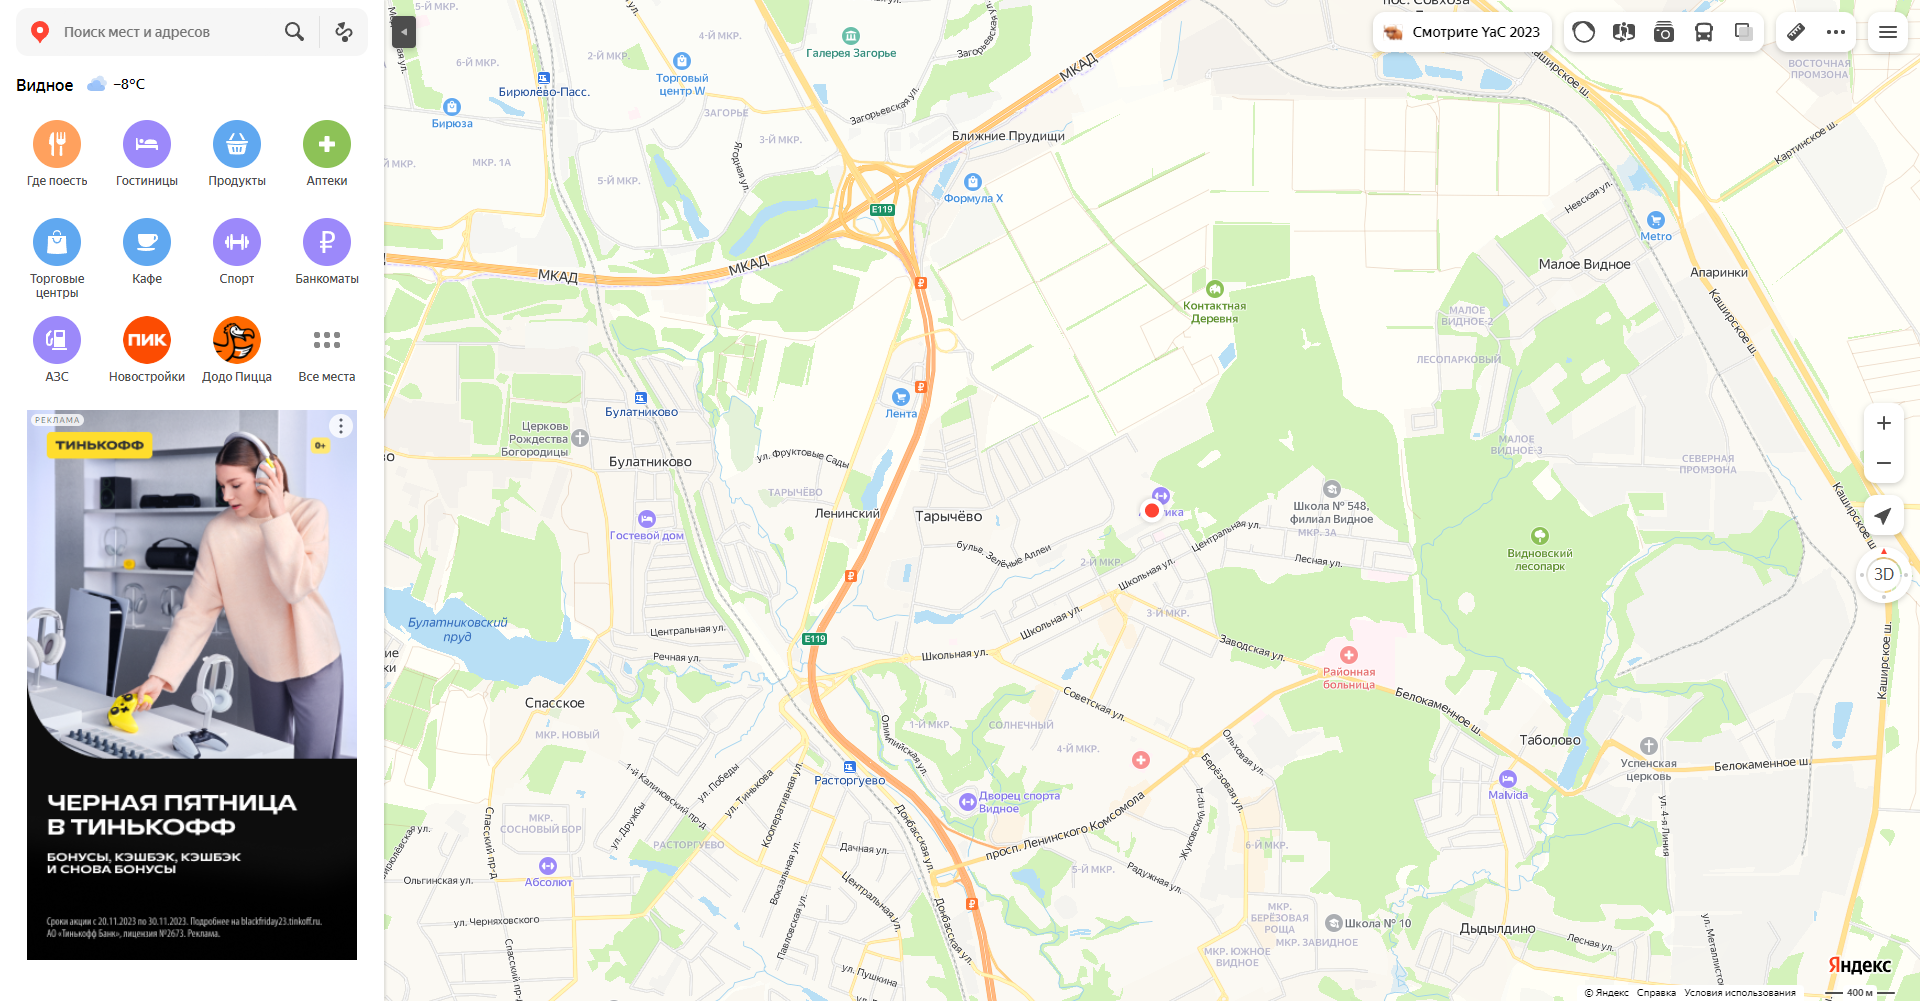
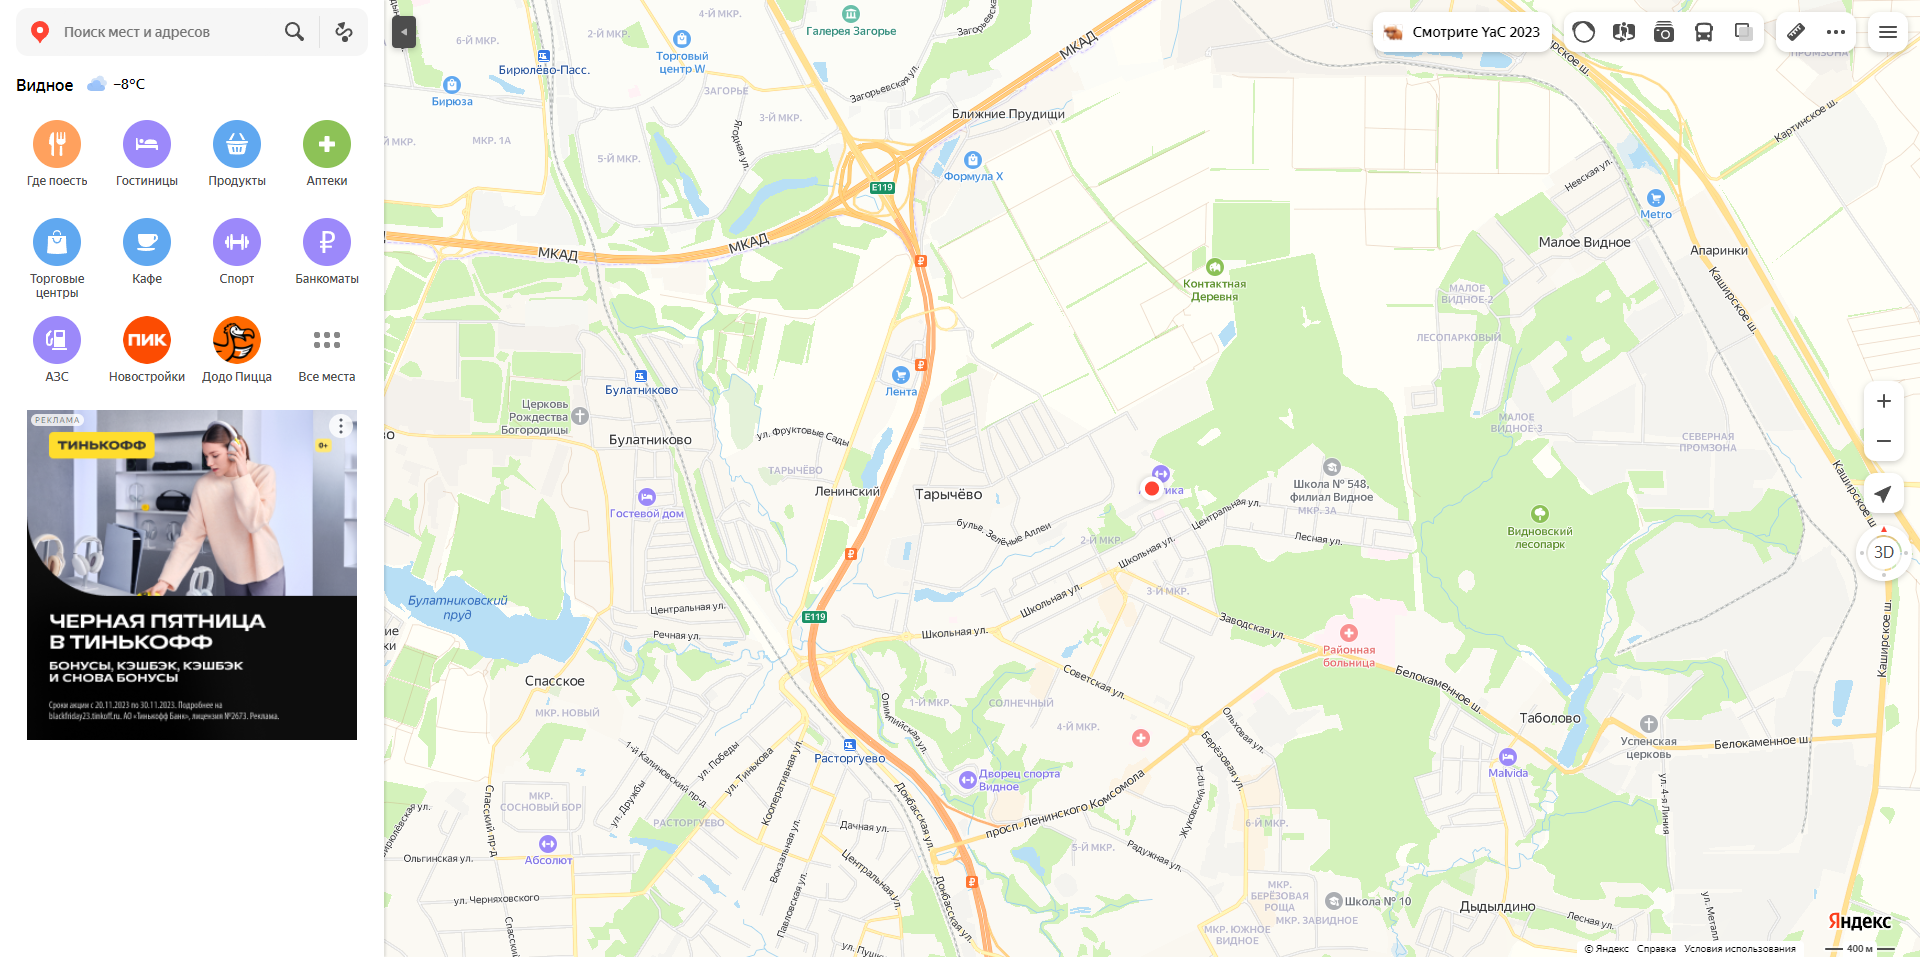
Files updated

diff --git a/tests/map_page_positive.py b/tests/map_page_positive.py
@@ -25,7 +25,7 @@ class TestMapPagePositive:
         assert "Поклонная" in parsed_toponyms_name
 
     @pytest.mark.geoloc
-    def test_current_geoloc_btn_no_auth(self, driver):
+    def test_current_geoloc_btn_click(self, driver):
         """Позитивный тест проверки работы кнопки "Моё местоположение", по нажатию определяющую текущую геолокацию
         пользователя. Тестирование выполняется без предварительной авторизации пользователя в системе. Валидация теста
         выполнена успешно в случае, если фактическое местонахождение пользователя в момент теста (МО, г. Видное)
@@ -36,10 +36,10 @@ class TestMapPagePositive:
         page.wait_page_loaded(check_images=True, check_page_changes=True)
         page.decrise_map_size(amount="medium")
         page.wait_page_loaded(check_images=True, check_page_changes=True)
-        page.make_screenshot(file_path=screenshots_folder + "\\test_current_geoloc_btn_no_auth.png")
+        page.make_screenshot(file_path=screenshots_folder + "\\test_current_geoloc_btn_click.png")
 
     @pytest.mark.map_size
-    def test_change_map_size_btn(self, driver):
+    def test_change_map_size_btn_click(self, driver):
         """Позитивный тест проверки работы кнопки "Моё местоположение", по нажатию определяющую текущую геолокацию
         пользователя. Тестирование выполняется без предварительной авторизации пользователя в системе. Валидация теста
         выполнена успешно в случае, если фактическое местонахождение пользователя в момент теста (МО, г. Видное)
@@ -47,16 +47,33 @@ class TestMapPagePositive:
 
         page = MainPage(driver)
         page.my_current_geoloc_btn_click()
-        page.wait_page_loaded(check_images=True, check_page_changes=True)
+        page.wait_page_loaded()
         page.make_screenshot(file_path=screenshots_folder + "\\test_change_map_size_initial.png")
         page.incrise_map_size(amount="high")
-        page.wait_page_loaded(check_images=True, check_page_changes=True)
+        page.wait_page_loaded()
         page.make_screenshot(file_path=screenshots_folder + "\\test_change_map_size_increased.png")
         page.decrise_map_size()
         page.decrise_map_size(amount="high")
-        page.wait_page_loaded(check_images=True, check_page_changes=True)
+        page.wait_page_loaded()
         page.make_screenshot(file_path=screenshots_folder + "\\test_change_map_size_decreased.png")
 
         if True:
             print("\nВалидация теста test_incrise_decrise_map_size_btn выполнена успешно!")
+
+    @pytest.mark.tilt_rotate
+    def test_3D_tilt_rotate_btn_click(self, driver):
+        """Позитивный тест проверки работы кнопки "Моё местоположение", по нажатию определяющую текущую геолокацию
+        пользователя. Тестирование выполняется без предварительной авторизации пользователя в системе. Валидация теста
+        выполнена успешно в случае, если фактическое местонахождение пользователя в момент теста (МО, г. Видное)
+        совпадает с местом, отображаемом на карте после нажатия на кнопку "Моё местоположение"."""
+
+        page = MainPage(driver)
+        page.wait_page_loaded()
+        page.my_current_geoloc_btn_click()
+        page.incrise_map_size(amount="high")
+        page.wait_page_loaded()
+        page.tilt_rotate_3D_btn_click()
+        page.wait_page_loaded()
+        # page.make_screenshot(file_path=screenshots_folder + "\\test_change_map_size_initial.png")
+
 

diff --git a/pages/main_page.py b/pages/main_page.py
@@ -13,6 +13,7 @@ class MainPage(BasePage):
 
         self.search_field = driver.find_element(*MainPageLocators.MAIN_SEARCH_FIELD)
         self.submit_search_btn = driver.find_element(*MainPageLocators.MAIN_SUBMIT_SEARCH_BTN)
+        self.tilt_rotate_3D_btn = driver.find_element(*MainPageLocators.MAIN_3D_TILT_ROTATE_BTN)
         self.current_geo_btn = driver.find_element(*MainPageLocators.MAIN_MY_GEO_BTN)
         self.incrise_view_size = driver.find_element(*MainPageLocators.MAIN_INCRISE_VIEW_SIZE)
         self.dicrise_view_size = driver.find_element(*MainPageLocators.MAIN_DICRISE_VIEW_SIZE)
@@ -64,4 +65,7 @@ class MainPage(BasePage):
     def get_toponym_descript(self, driver):
         parsed_toponym = driver.find_element(*MainPageLocators.MAIN_TOPONYM_DESCRIPTION).text
         return parsed_toponym
+
+    def tilt_rotate_3D_btn_click(self):
+        self.tilt_rotate_3D_btn.click()
 

diff --git a/pages/base_page.py b/pages/base_page.py
@@ -66,7 +66,7 @@ class BasePage(object):
         return source
 
     def wait_page_loaded(self, timeout=60, check_js_complete=True,
-                         check_page_changes=False, check_images=False,
+                         check_page_changes=True, check_images=True,
                          wait_for_element=None,
                          wait_for_xpath_to_disappear='',
                          sleep_time=2):

diff --git a/pages/locators.py b/pages/locators.py
@@ -8,6 +8,7 @@ class MainPageLocators:
     MAIN_INCRISE_VIEW_SIZE = (By.XPATH, "//button[@aria-label='Приблизить']")
     MAIN_DICRISE_VIEW_SIZE = (By.XPATH, "//button[@aria-label='Отдалить']")
     MAIN_TOPONYM_DESCRIPTION = (By.XPATH, "//ul/li[1]/div/div/div/div[2]/div[1]/div[1]")
+    MAIN_3D_TILT_ROTATE_BTN = (By.XPATH, "//div[@style='transform: rotateX(0rad);']")
 
 
 # class AuthLocators:
